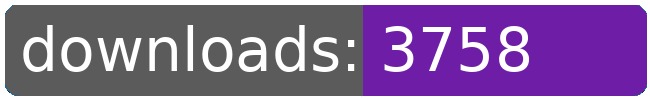
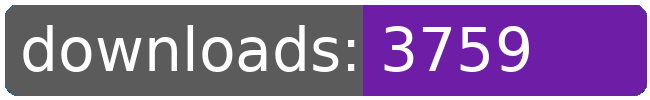
dl log written

Changed region(s): [[0.7692, 0.27, 0.8308, 0.72]]

diff --git a/README.md b/README.md
@@ -21,8 +21,8 @@
 		<td>5056</td>
 		<td>5087</td>
 		<td>5125</td>
-		<td>5160</td>
-		<td>+ 35</td>
+		<td>5162</td>
+		<td>+ 37</td>
 	</tr>
 	<tr>
 		<td>aberrant.kahet.outfitter</td>
@@ -153,8 +153,8 @@
 		<td>3723</td>
 		<td>3736</td>
 		<td>3748</td>
-		<td>3758</td>
-		<td>+ 10</td>
+		<td>3759</td>
+		<td>+ 11</td>
 	</tr>
 	<tr>
 		<td>purchase.bactrian</td>
@@ -274,8 +274,8 @@
 		<td></td>
 		<td></td>
 		<td></td>
-		<td>74797</td>
-		<td>284</td>
+		<td>74800</td>
+		<td>287</td>
 	</tr>
 </table>
 </sub></sup>
@@ -300,8 +300,8 @@
 		<td>5056</td>
 		<td>5087</td>
 		<td>5125</td>
-		<td>5160</td>
-		<td>+ 35</td>
+		<td>5162</td>
+		<td>+ 37</td>
 	</tr>
 	<tr>
 		<td>aberrant.kahet.outfitter</td>
@@ -399,8 +399,8 @@
 		<td>3723</td>
 		<td>3736</td>
 		<td>3748</td>
-		<td>3758</td>
-		<td>+ 10</td>
+		<td>3759</td>
+		<td>+ 11</td>
 	</tr>
 	<tr>
 		<td>unlimited.dfc</td>
@@ -553,8 +553,8 @@
 		<td></td>
 		<td></td>
 		<td></td>
-		<td>74797</td>
-		<td>284</td>
+		<td>74800</td>
+		<td>287</td>
 	</tr>
 </table>
 </sub></sup>
